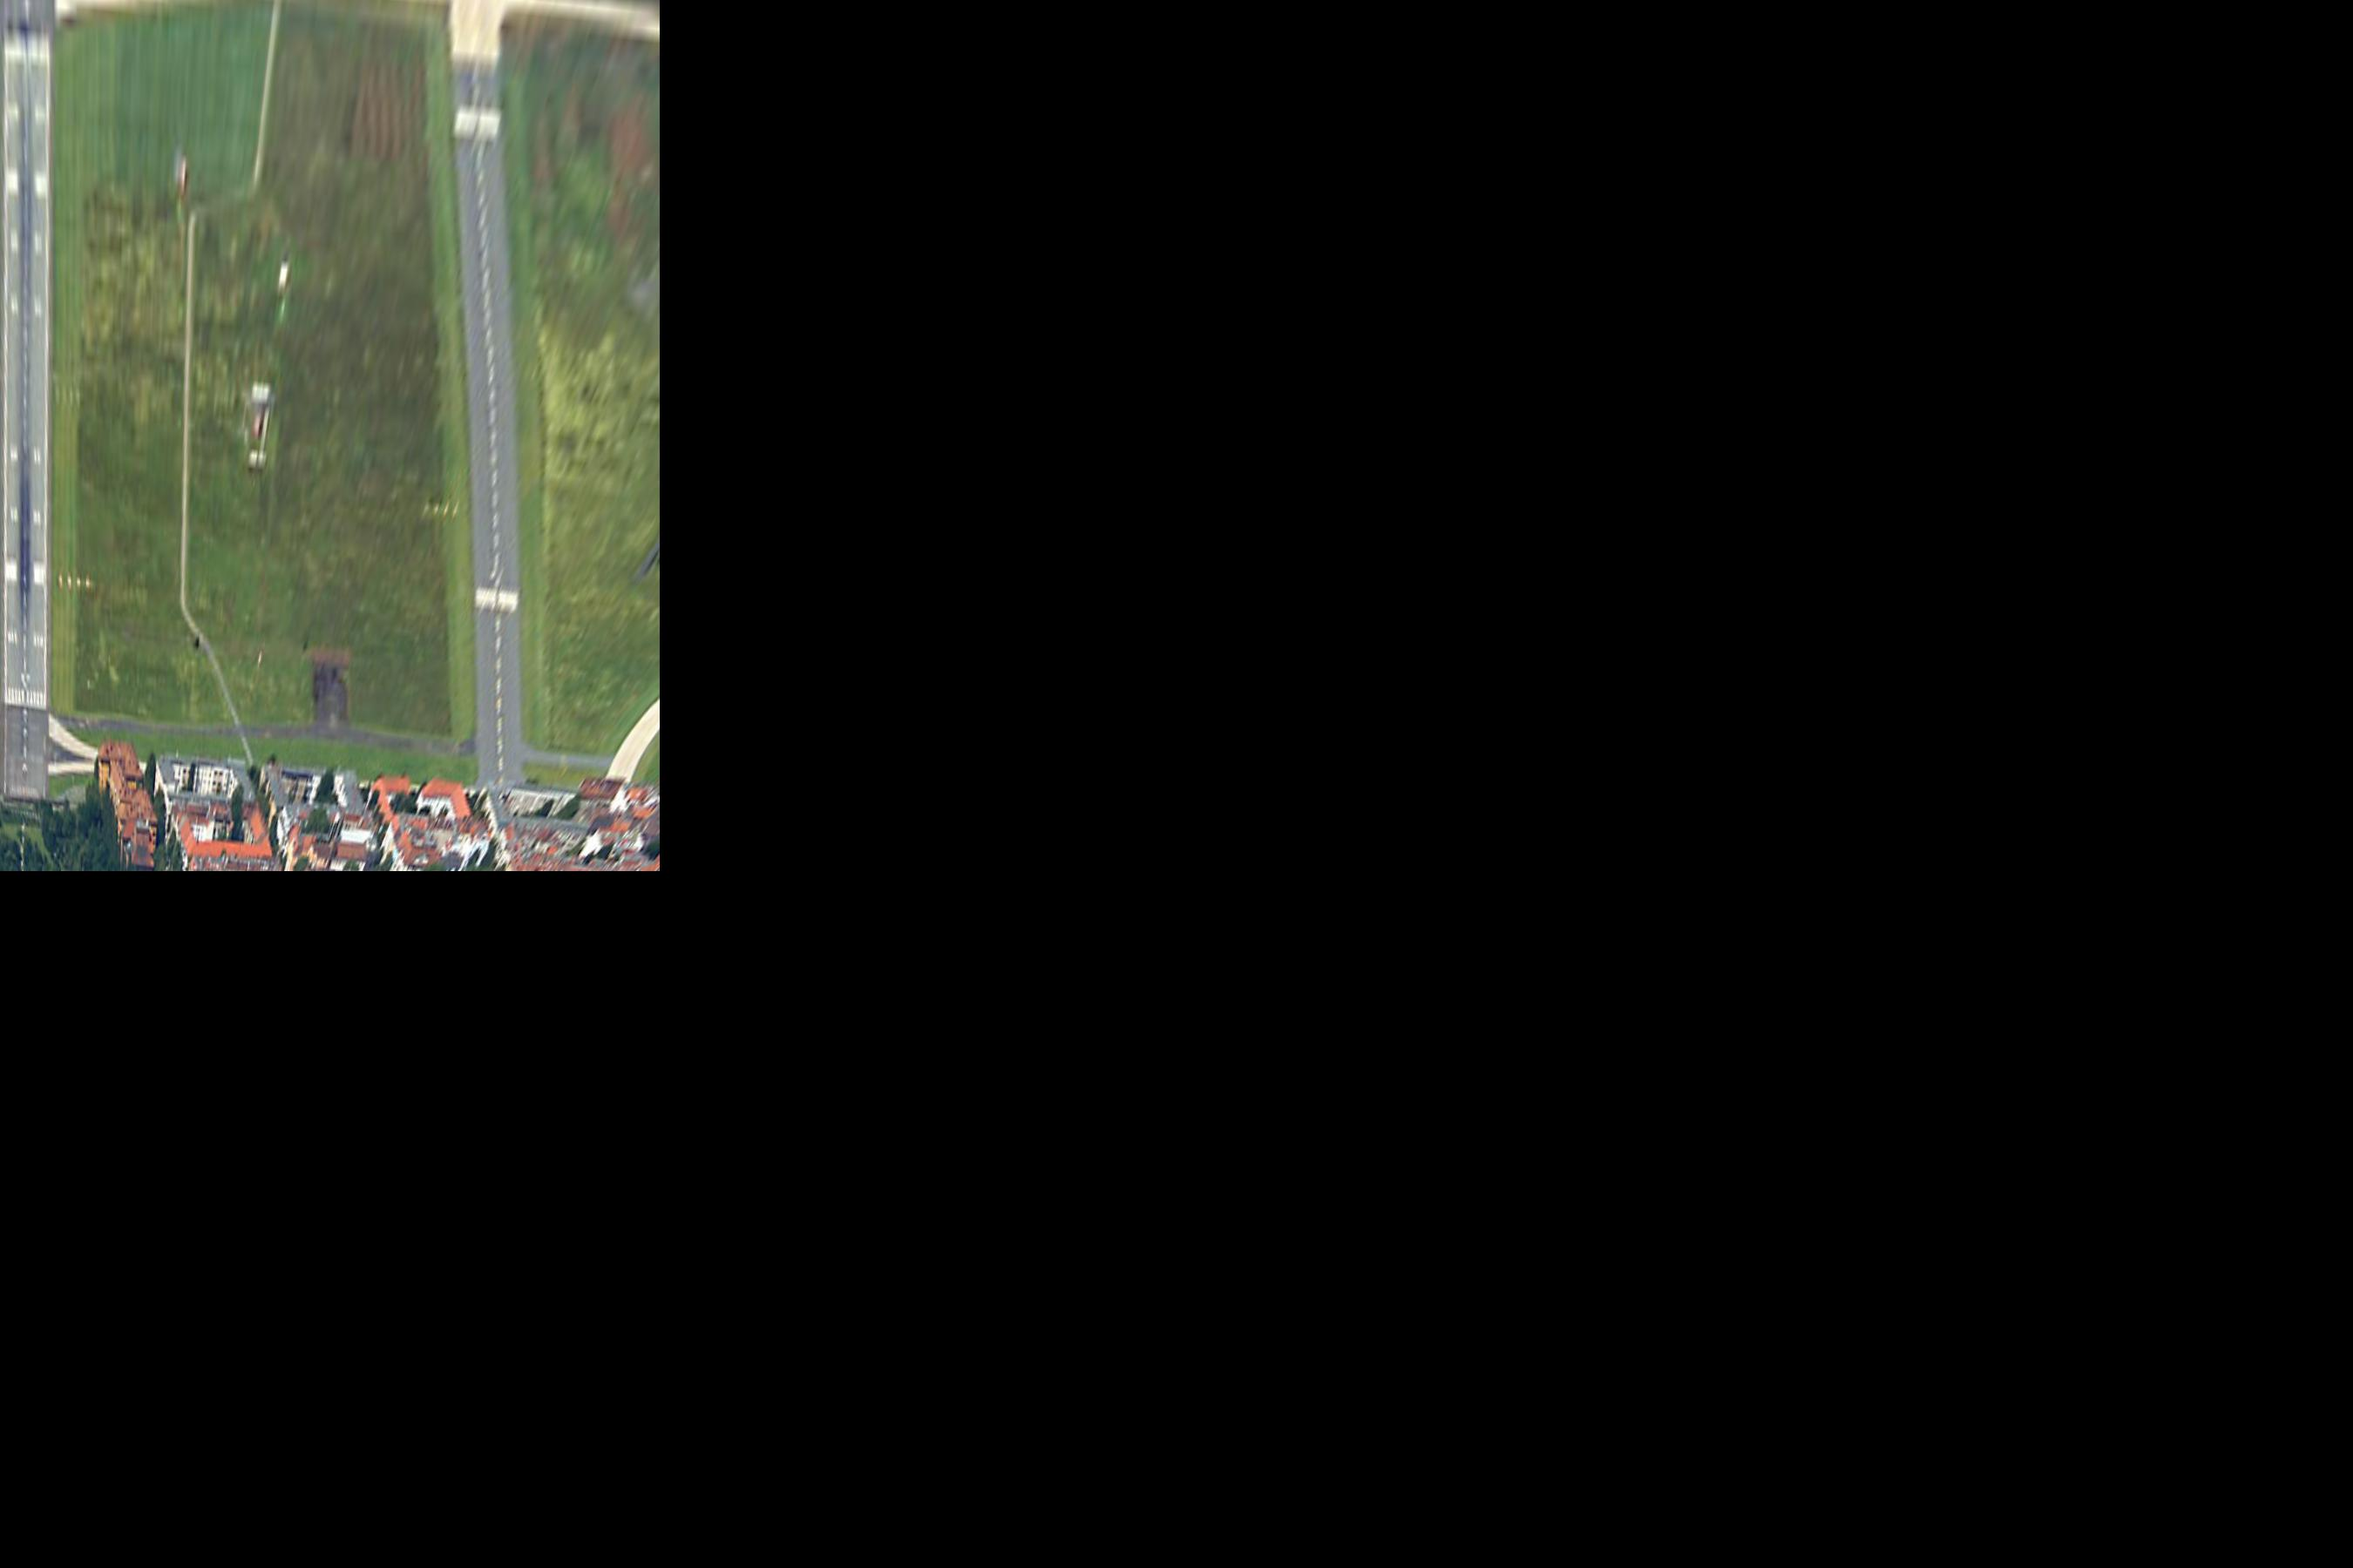
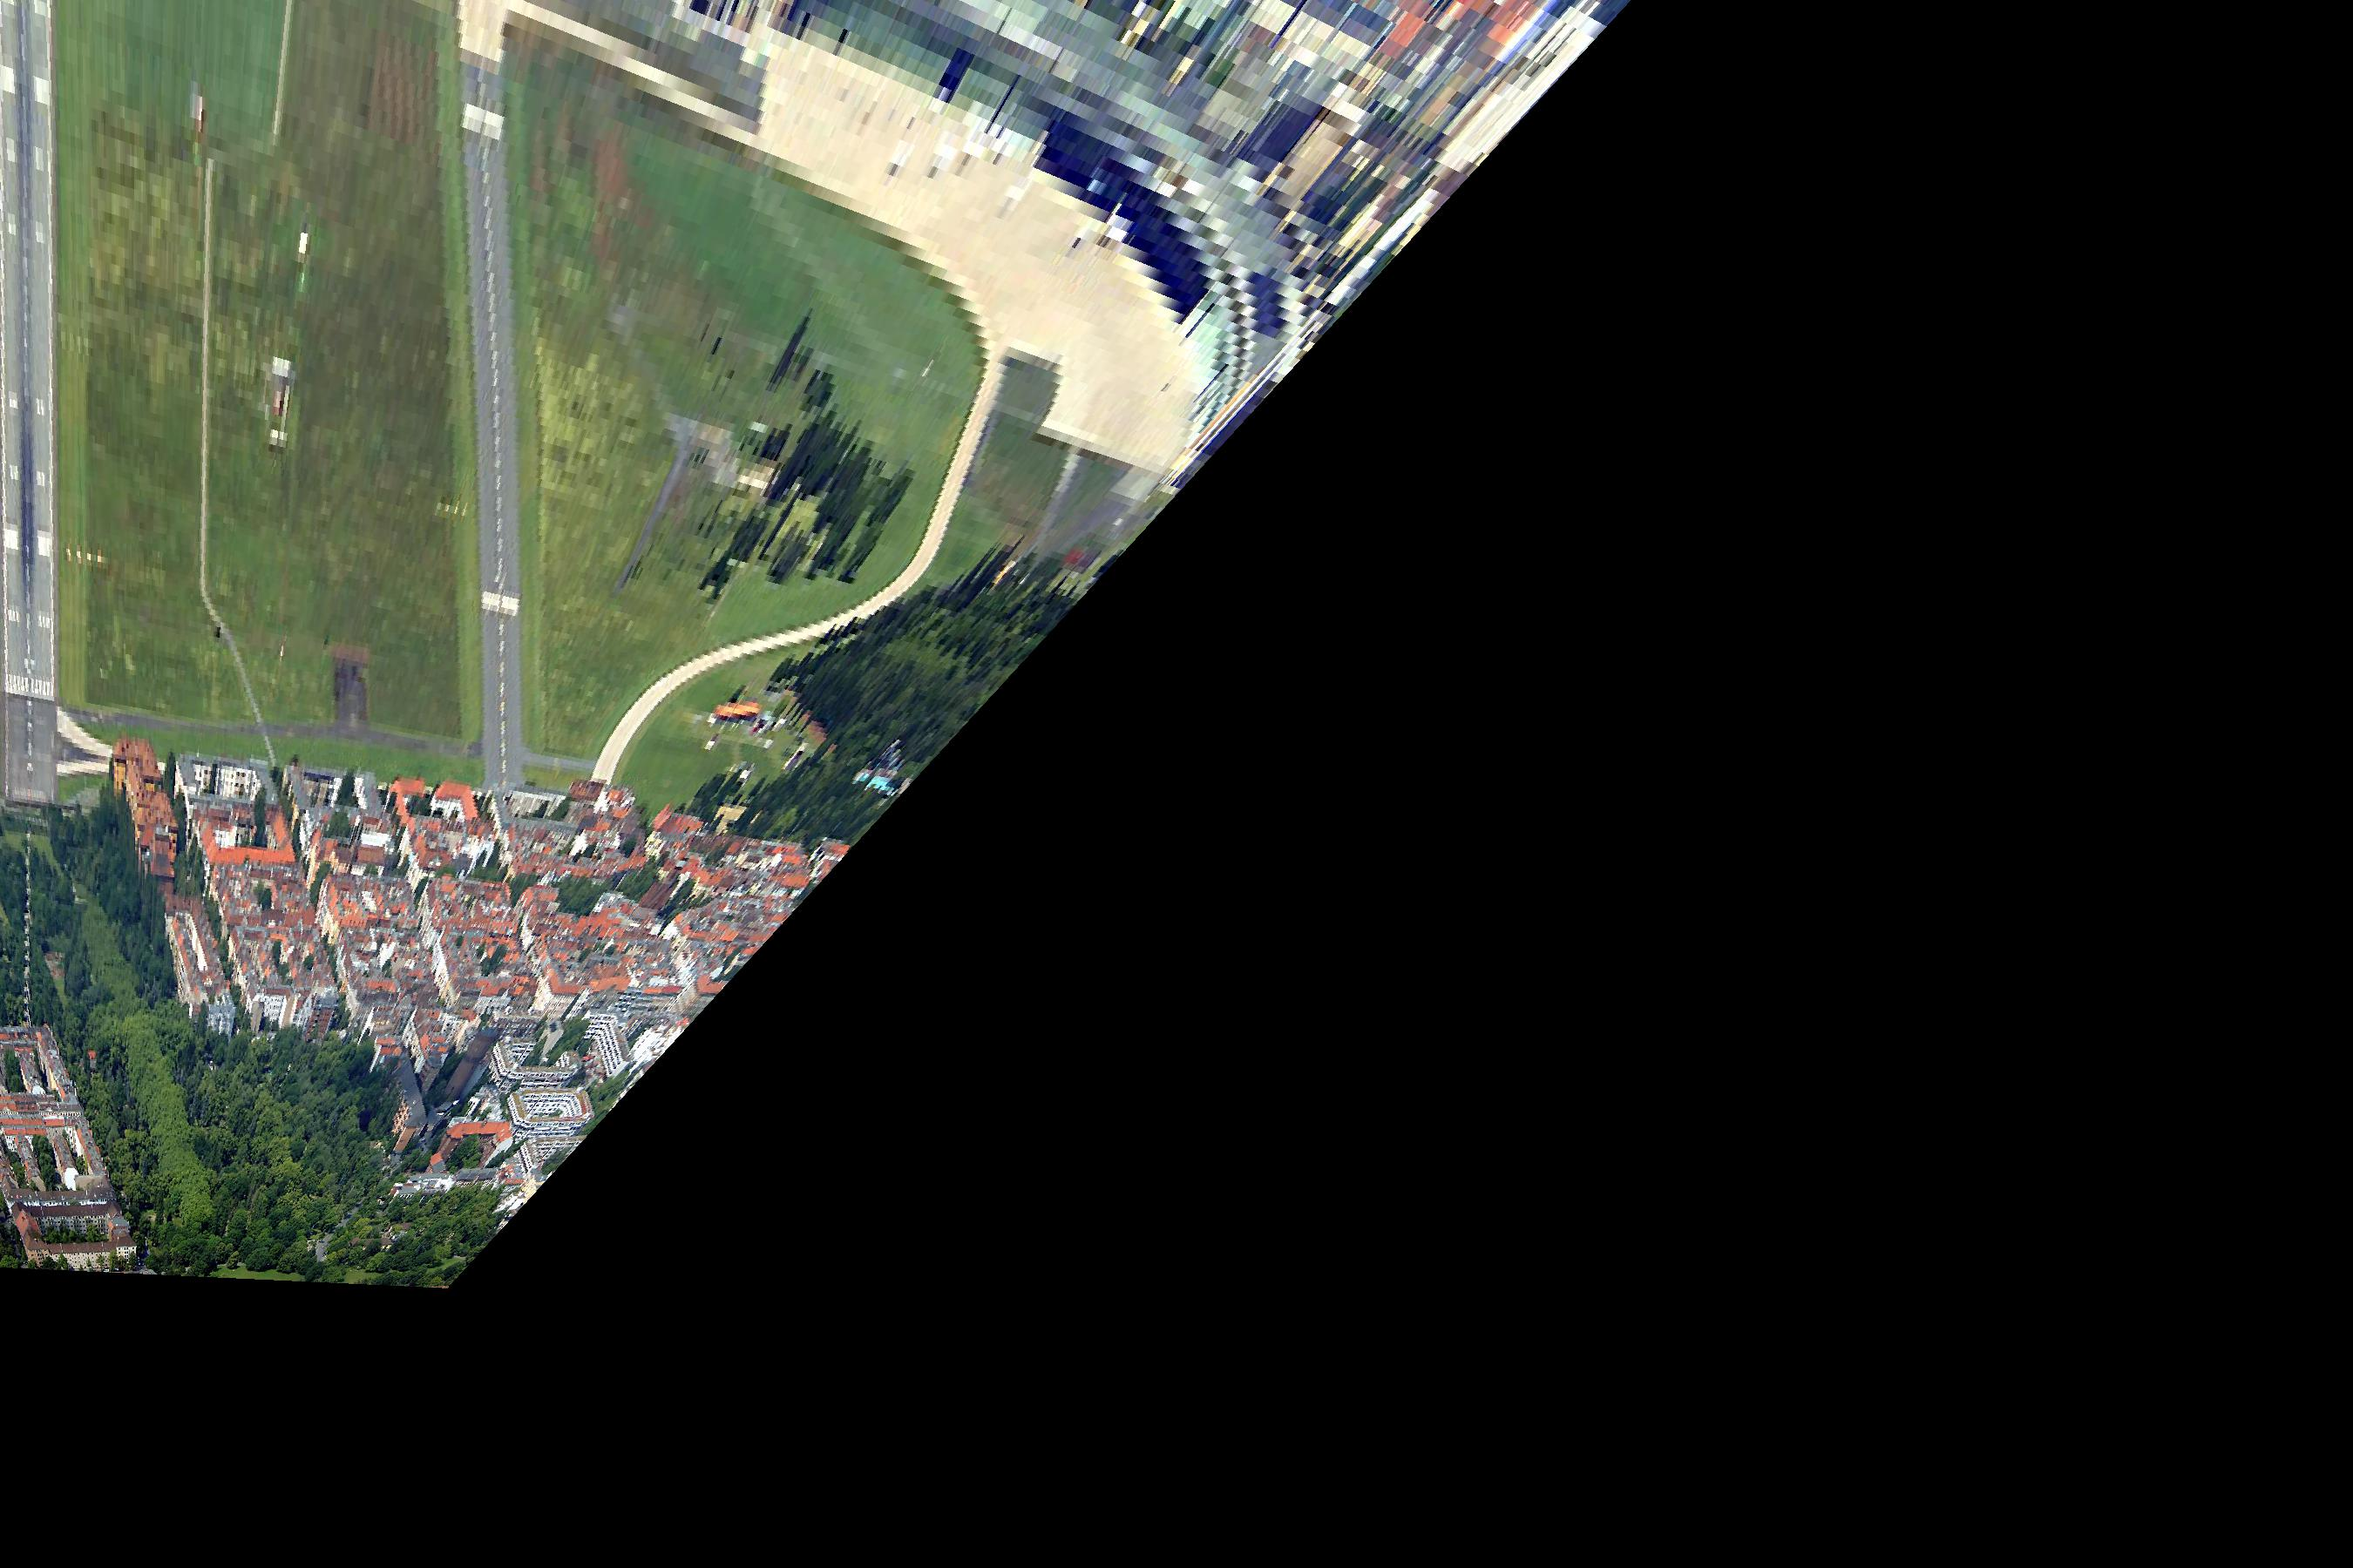
libocores der verschiedenen Übungen gemerged.

Changed region(s): [[0.0, 0.0, 0.6844, 0.84]]

diff --git a/Uebung/Uebung2/src/exercise2.py b/Uebung/Uebung2/src/exercise2.py
@@ -2,7 +2,7 @@ import numpy as np
 from scipy.misc import imsave
 
 from libcore import Img
-from libcore import RestructuringMethod
+from libcore import DistortionCorrection, DistortionCorrectionPoint
 
 image_path = '../schraegbild_tempelhof.jpg'
 
@@ -48,44 +48,12 @@ def b1():
     target_point_4_x = target_image_size_witdh
     target_point_4_y = 0.0
 
-    equalisation_matrix1 = np.zeros((8,8))
+    points = [DistortionCorrectionPoint(344.0, 344.0, 0.0, 0.0),  # links oben
+                DistortionCorrectionPoint(300.0, 456.0, 0.0, target_image_size_height),  # links unten
+                DistortionCorrectionPoint(694.0, 432.0, target_image_size_witdh, target_image_size_height),
+                DistortionCorrectionPoint(548.0, 330.0, target_image_size_witdh, 0.0)] # rechts unten
 
-    equalisation_matrix = np.array([[pass_point_1_x, pass_point_1_y, 1, 0, 0, 0, -target_point_1_x*pass_point_1_x,-target_point_1_x*pass_point_1_y],
-                                    [0,0,0,pass_point_1_x,pass_point_1_y,1,-target_point_1_y*pass_point_1_x,-target_point_1_y*pass_point_1_y],
-                                    [pass_point_2_x,pass_point_2_y,1,0,0,0,-target_point_2_x*pass_point_2_x,-target_point_2_x*pass_point_2_y],
-                                    [0,0,0,pass_point_2_x,pass_point_2_y,1,-target_point_2_y*pass_point_2_x,-target_point_2_y*pass_point_2_y],
-                                    [pass_point_3_x,pass_point_3_y,1,0,0,0,-target_point_3_x*pass_point_3_x,-target_point_3_x*pass_point_3_y],
-                                    [0,0,0,pass_point_3_x,pass_point_3_y,1,-target_point_3_y*pass_point_3_x,-target_point_3_y*pass_point_3_y],
-                                    [pass_point_4_x,pass_point_4_y,1,0,0,0,-target_point_4_x*pass_point_4_x,-target_point_4_x*pass_point_4_y],
-                                    [0,0,0,pass_point_4_x,pass_point_4_y,1,-target_point_4_y*pass_point_4_x,-target_point_4_y*pass_point_4_y]])
-
-    target_points = np.transpose([target_point_1_x,target_point_1_y,target_point_2_x,target_point_2_y,target_point_3_x,target_point_3_y,target_point_4_x,target_point_4_y])
-
-
-    a = (np.linalg.inv(equalisation_matrix)).dot(target_points)
-
-    print (a.shape)
-
-    a1 = a[0]
-    a2 = a[1]
-    a3 = a[2]
-    b1 = a[3]
-    b2 = a[4]
-    b3 = a[5]
-    c1 = a[6]
-    c2 = a[7]
-
-
-    for x_old in np.arange(0, image.shape[1]):
-        for y_old in np.arange(0, image.shape[0]):
-            denominator = (b1*c2 - b2*c1)*y_old + (a2*c1 - a1*c2)*x_old + a1*b2 - a2*b1
-            new_x = ((b2 - c2*b3)*y_old + (a3*c2 - a2)*x_old + a2*b3 - a3*b2)/denominator
-            new_y = ((b3*c1 - b1)*y_old + (a1 - a3*c1)*x_old + a3*b1 - a1*b3)/denominator
-
-            if new_x > 0 and new_y > 0 and new_x < image.shape[1] and new_y < image.shape[0]:
-                new_image[x_old, y_old, 0] = RestructuringMethod.bilinear_interpolation(image[:, :, 0], new_y, new_x)
-                new_image[x_old, y_old, 1] = RestructuringMethod.bilinear_interpolation(image[:, :, 1], new_y, new_x)
-                new_image[x_old, y_old, 2] = RestructuringMethod.bilinear_interpolation(image[:, :, 2], new_y, new_x)
+    new_image = DistortionCorrection.distortion_correction(points, image, new_image)
 
     imsave("../images/test.jpg", new_image)
 

diff --git a/Uebung/Uebung2/src/libcore.py b/Uebung/Uebung2/src/libcore.py
@@ -194,3 +194,70 @@ class RestructuringMethod(Enum):
         new_y = int(y + 0.5)
 
         return new_x, new_y
+
+
+class DistortionCorrection(object):
+
+    @staticmethod
+    def generate_distort_corretion_mat(points):
+
+        equalisation_matrix = np.zeros(8)
+        target_points = []
+
+        for point in points:
+            tmp_entry = [point.pass_point_x, point.pass_point_y, 1, 0, 0, 0, -point.target_point_x*point.pass_point_x,-point.target_point_x*point.pass_point_y]
+            equalisation_matrix = np.vstack((equalisation_matrix, tmp_entry))
+
+            tmp_entry = [0,0,0,point.pass_point_x,point.pass_point_y,1,-point.target_point_y*point.pass_point_x,-point.target_point_y*point.pass_point_y]
+            equalisation_matrix = np.vstack((equalisation_matrix, tmp_entry))
+            target_points.append(point.target_point_x)
+            target_points.append(point.target_point_y)
+
+        # delete first pseudo entry
+        equalisation_matrix = np.delete(equalisation_matrix, 0, 0)
+
+        target_points = np.transpose(target_points)
+
+        pseudo_inverse = np.linalg.pinv(equalisation_matrix)
+
+        a = (pseudo_inverse).dot(target_points)
+
+        return a
+
+
+    @staticmethod
+    def distortion_correction(points, image_orig, new_image):
+        a = DistortionCorrection.generate_distort_corretion_mat(points)
+
+        a1 = a[0]
+        a2 = a[1]
+        a3 = a[2]
+        b1 = a[3]
+        b2 = a[4]
+        b3 = a[5]
+        c1 = a[6]
+        c2 = a[7]
+
+        for y in np.arange(0, new_image.shape[0]):
+            for x in np.arange(0, new_image.shape[1]):
+                denominator = ((b1 * c2 - b2 * c1) * x) + ((a2 * c1 - a1 * c2) * y) + (a1 * b2) - (a2 * b1)
+
+                new_x = ((b2 - c2 * b3) * x + (a3 * c2 - a2) * y + a2 * b3 - a3 * b2) / denominator
+                new_y = ((b3 * c1 - b1) * x + (a1 - a3 * c1) * y + a3 * b1 - a1 * b3) / denominator
+
+                if new_x > 0 and new_y > 0 and new_x < image_orig.shape[1] and new_y < image_orig.shape[0]:
+                    # new_image[y, x, 0] = RestructuringMethod.bilinear_interpolation(image[:, :, 0], new_y, new_x)
+                    # new_image[y, x, 1] = RestructuringMethod.bilinear_interpolation(image[:, :, 1], new_y, new_x)
+                    # new_image[y, x, 2] = RestructuringMethod.bilinear_interpolation(image[:, :, 2], new_y, new_x)
+                    new_image[y, x, :] = image_orig[new_y, new_x, :]
+
+        return new_image
+
+
+class DistortionCorrectionPoint(object):
+
+    def __init__(self,pass_x, pass_y, target_x, target_y):
+        self.pass_point_x = pass_x
+        self.pass_point_y = pass_y
+        self.target_point_x = target_x
+        self.target_point_y = target_y

diff --git a/Uebung/Uebung3/src/exercise2.py b/Uebung/Uebung3/src/exercise2.py
@@ -2,7 +2,7 @@ import numpy as np
 from scipy.misc import imsave
 
 from libcore import Img
-from libcore import RestructuringMethod, DistortionCorrection, DistortionCorrectionPoint
+from libcore import DistortionCorrection, DistortionCorrectionPoint
 
 image_path = '../schraegbild_tempelhof.jpg'
 
